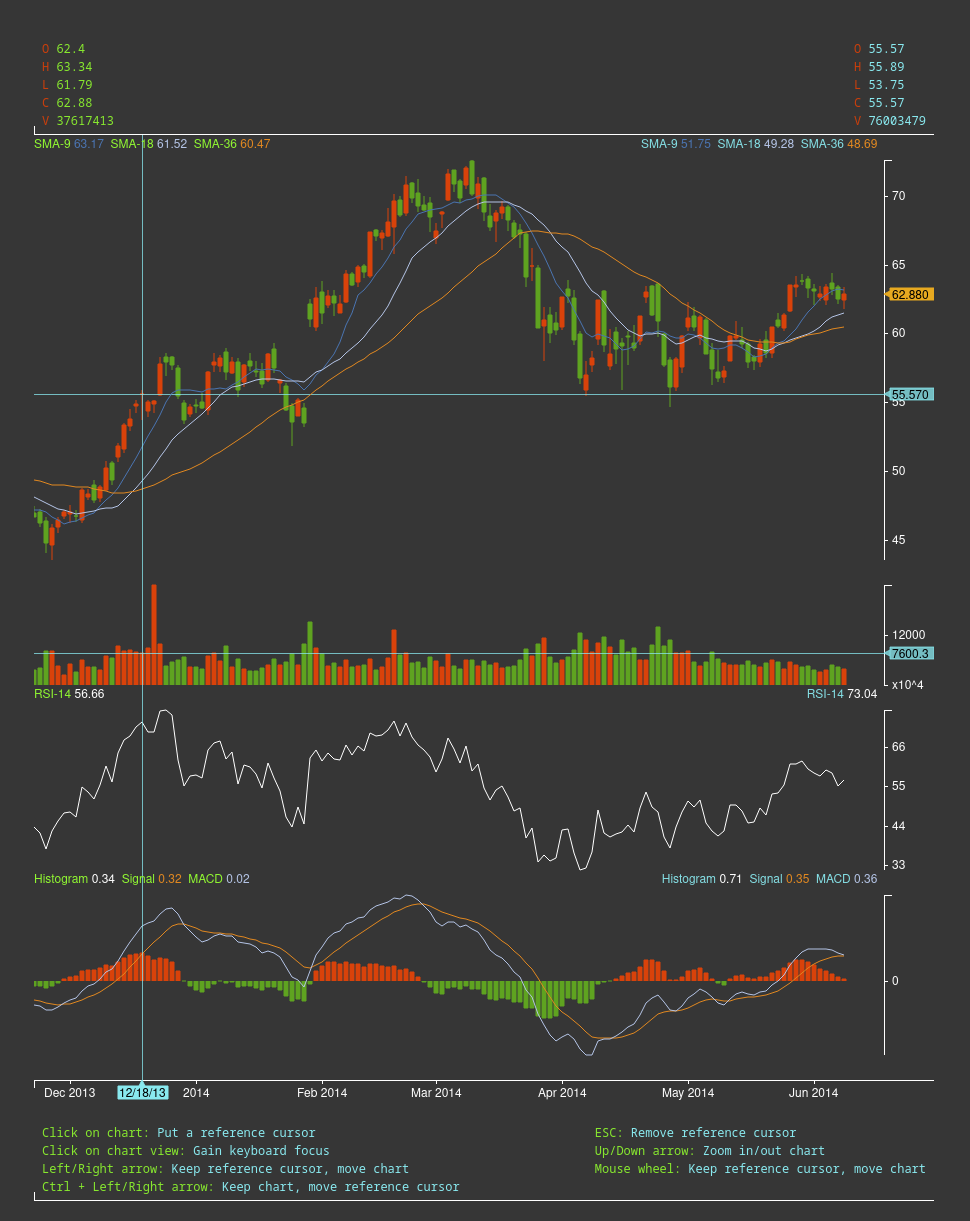
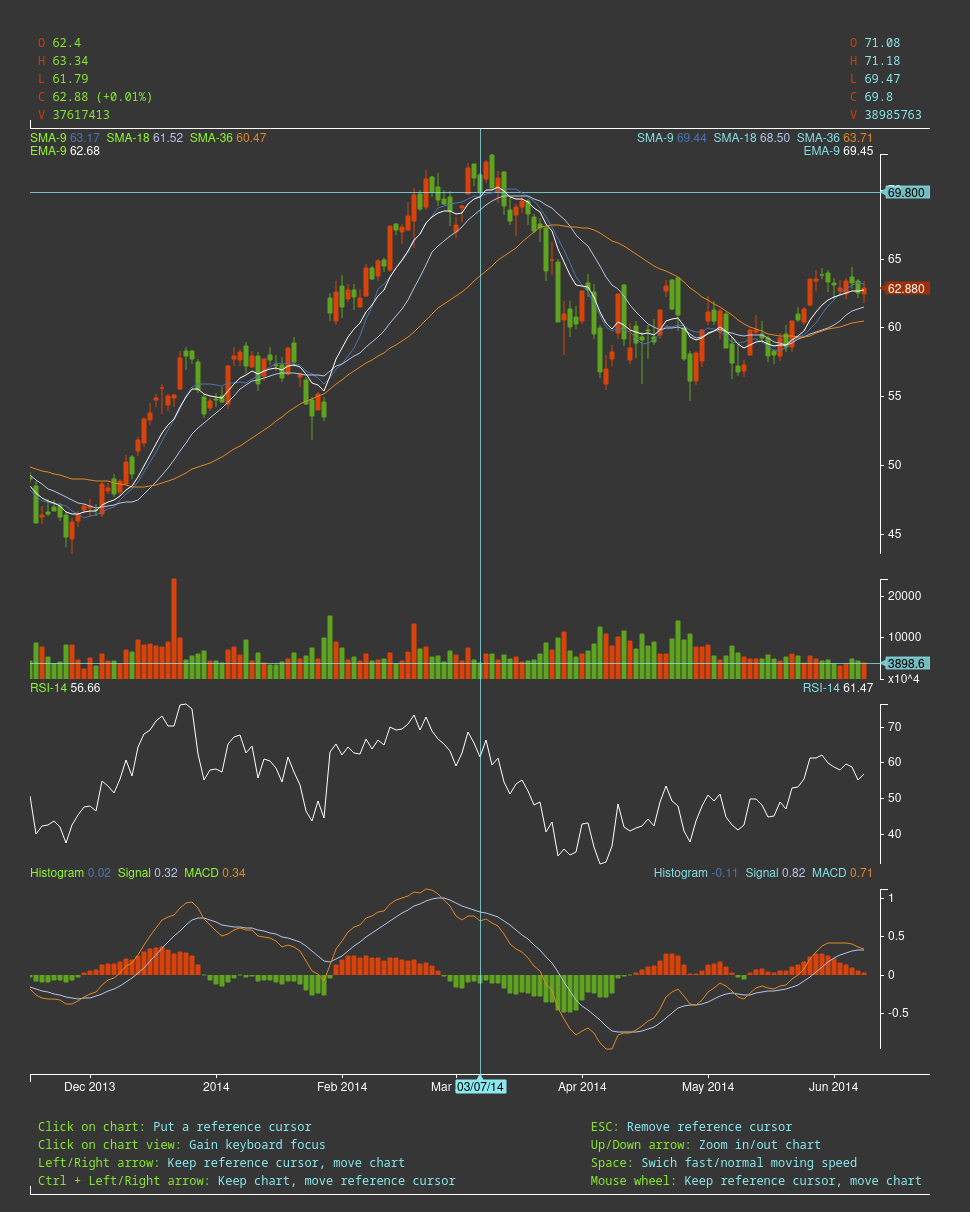
new screenshot for README.

diff --git a/src/lib/charting/view/ChartXControl.ts b/src/lib/charting/view/ChartXControl.ts
@@ -33,7 +33,7 @@ export class ChartXControl {
 
     readonly baseSer: TSer;
 
-    #wBarIdx = 10;
+    #wBarIdx = 11;
     /** pixels per bar (bar width in pixels) */
     wBar = ChartXControl.PREDEFINED_BAR_WIDTHS[this.#wBarIdx]
 
